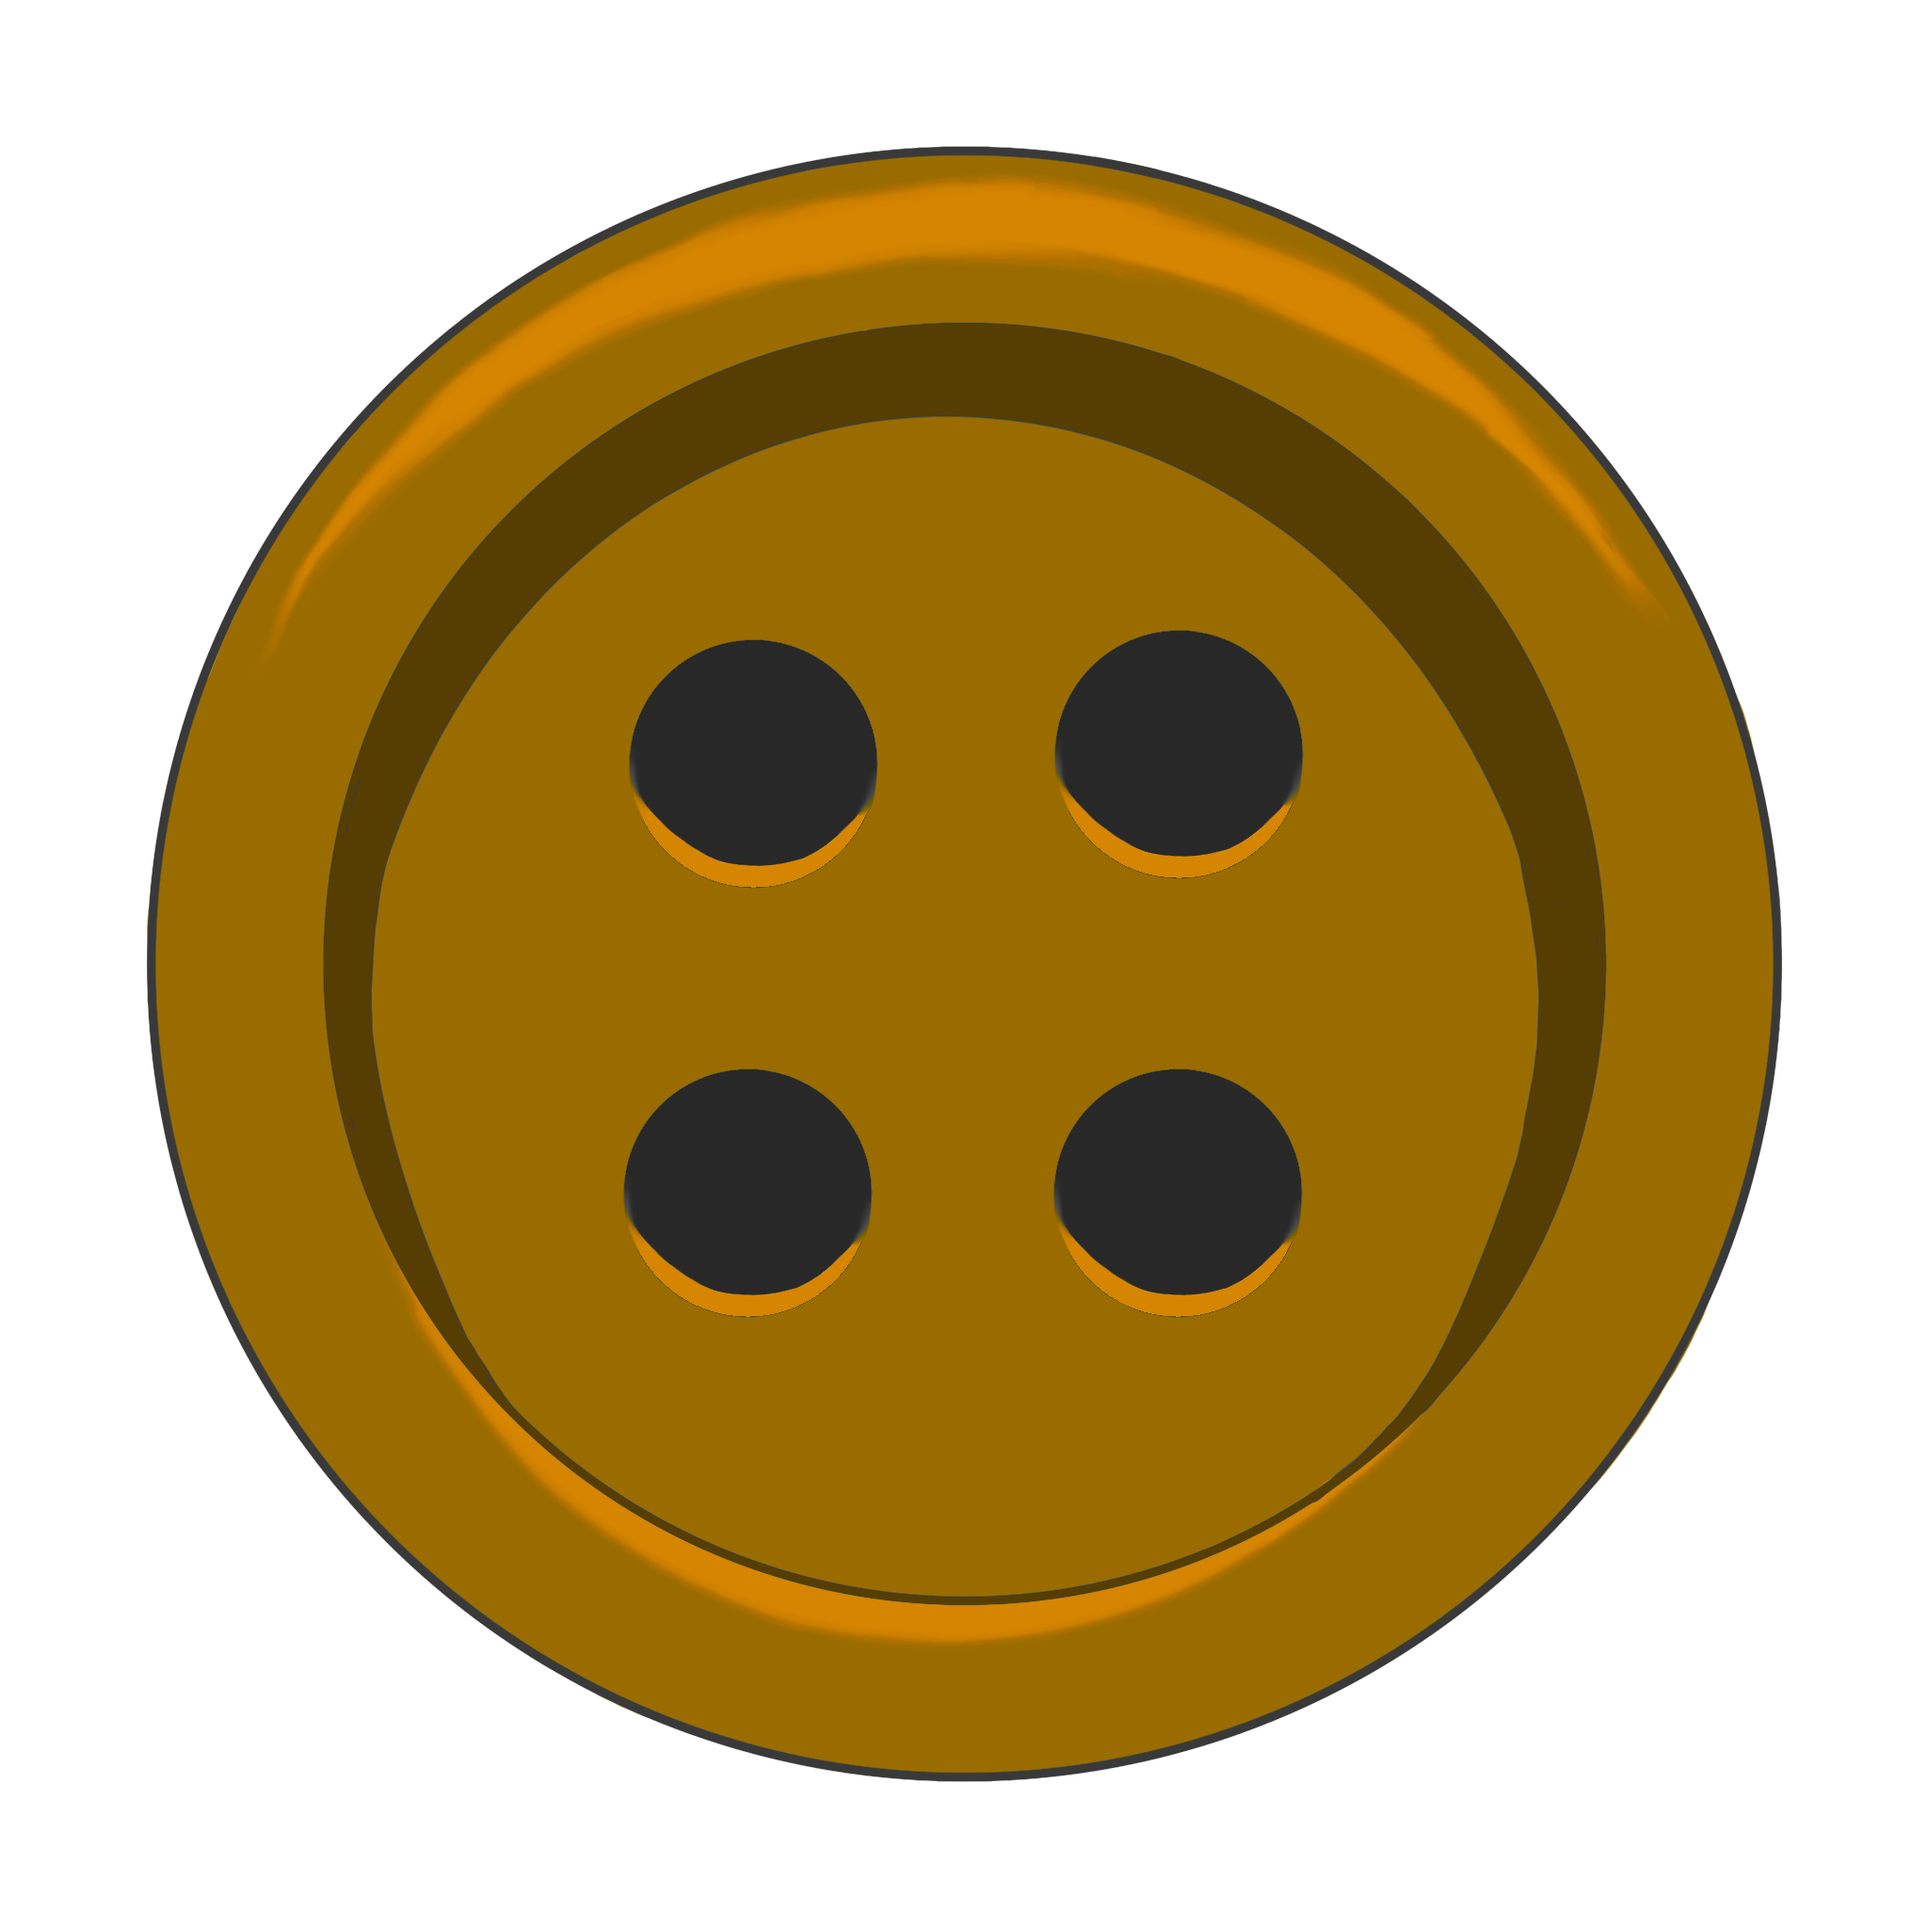
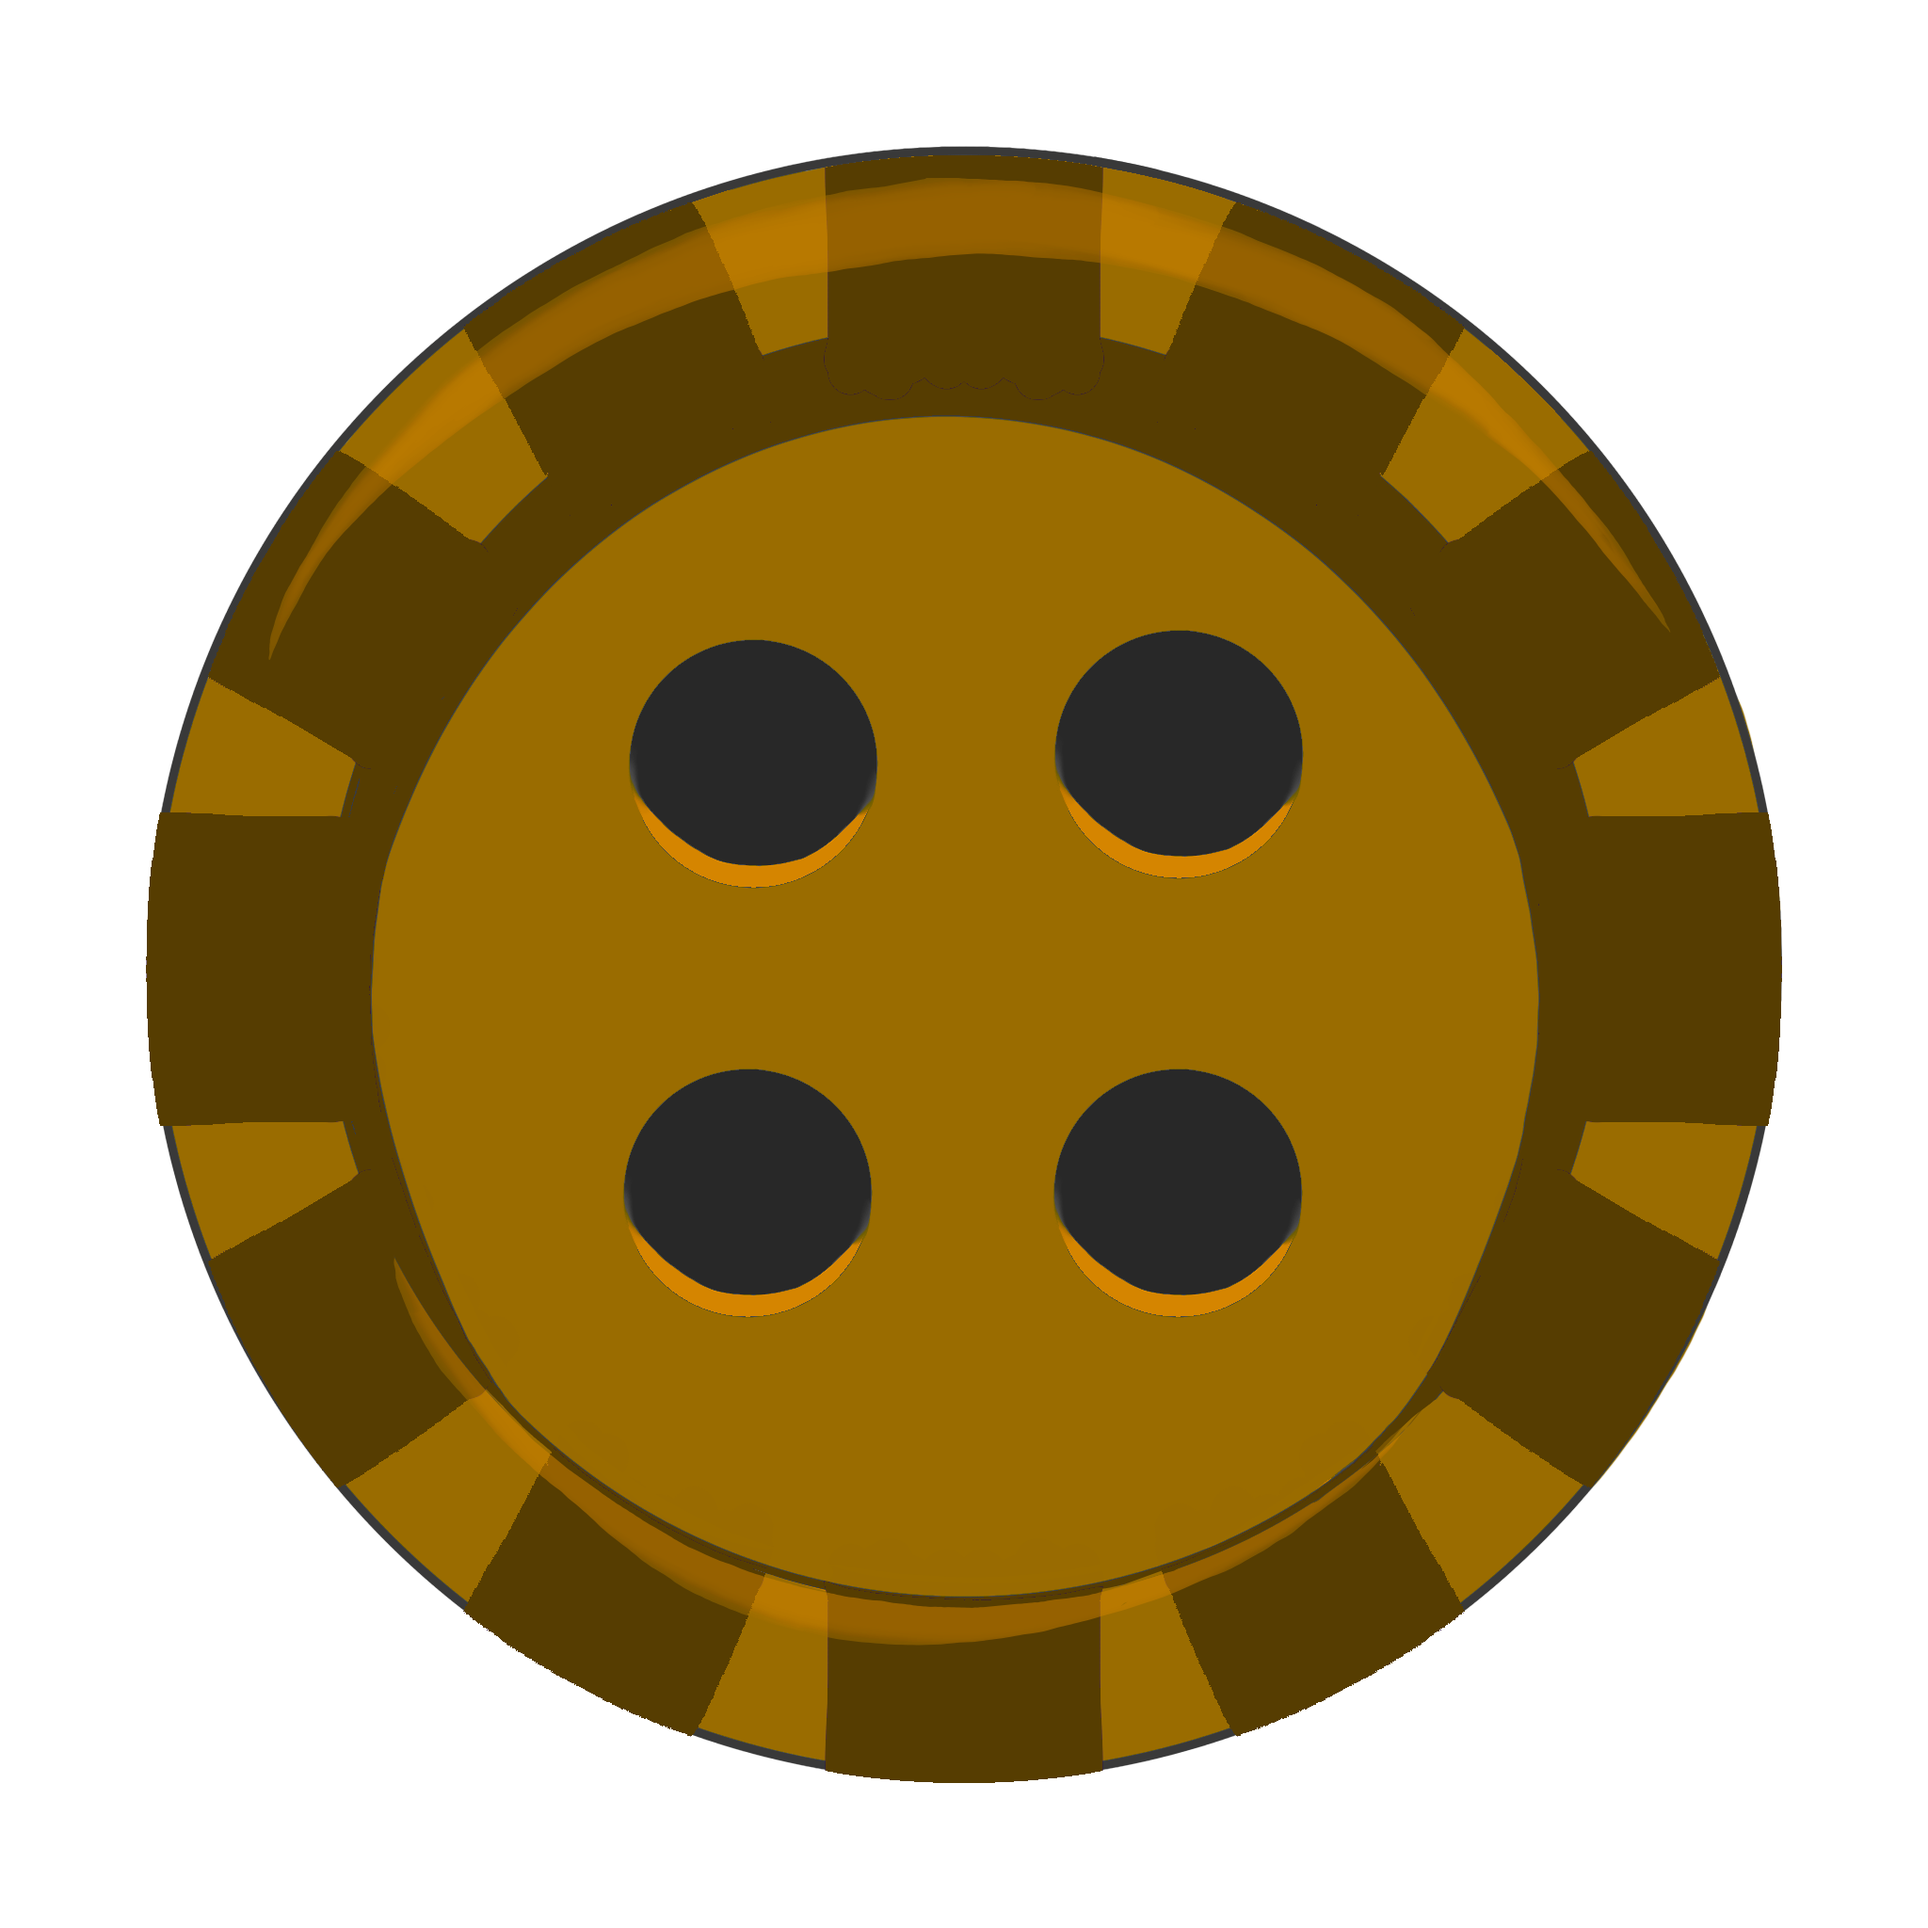
added in background and strike buttons

Changed region(s): [[0.0625, 0.0625, 0.7812, 0.9375], [0.75, 0.2188, 0.9375, 0.7812]]

diff --git a/My project/Assets/Scripts/BackgroundCameraHeightFollow.cs b/My project/Assets/Scripts/BackgroundCameraHeightFollow.cs
@@ -1,0 +1,35 @@
+using UnityEngine;
+
+[DisallowMultipleComponent]
+public class BackgroundCameraHeightFollow : MonoBehaviour
+{
+    [SerializeField] private Camera targetCamera;
+
+    private float cameraStartY;
+    private float backgroundStartY;
+
+    private void Awake()
+    {
+        if (targetCamera == null)
+        {
+            targetCamera = Camera.main;
+        }
+
+        if (targetCamera == null)
+        {
+            Debug.LogError("Assign a target camera", this);
+            enabled = false;
+            return;
+        }
+
+        cameraStartY = targetCamera.transform.position.y;
+        backgroundStartY = transform.position.y;
+    }
+
+    private void LateUpdate()
+    {
+        Vector3 position = transform.position;
+        position.y = backgroundStartY + targetCamera.transform.position.y - cameraStartY;
+        transform.position = position;
+    }
+}
